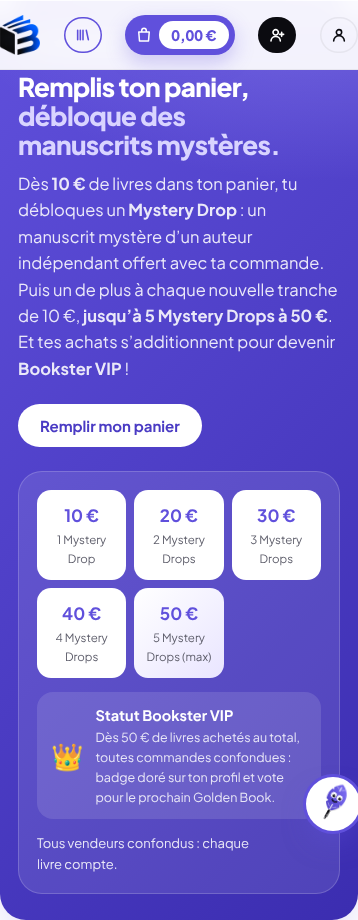
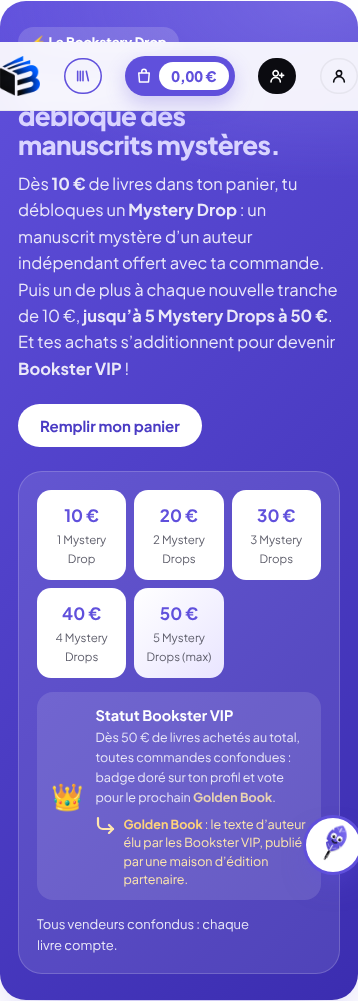
Accueil : définition du Golden Book sous le statut Bookster VIP
Claude-Session: https://claude.ai/code/session_01EPa3evC84KLMU14gb8iTX3

diff --git a/index.html b/index.html
@@ -1050,6 +1050,10 @@ footer .legal{grid-column:1/-1;border-top:1px solid var(--line);padding-top:18px
 .modal .btn.pk-manage{margin-top:16px}
 .au-list.boosted .au-item b::after{content:" ⚡ Prioritaire";font-size:11.5px;font-weight:800;color:var(--maj-d);background:var(--maj-l);border-radius:999px;padding:1px 8px;margin-left:6px;white-space:nowrap}
 @media(max-width:560px){.pk-hero{padding:18px}.pk-price b{font-size:28px}.pk-table{font-size:12.5px}.pk-table th:nth-child(4),.pk-table td:nth-child(4){display:none}}
+.dv-badge .gb-word{display:inline;font-size:inherit;color:#FFE7AE}
+.gb-def{display:flex;align-items:flex-start;gap:6px;margin-top:8px;font-size:12.5px;line-height:1.45;color:#FFE7AE}
+.gb-def svg{flex:none;margin-top:1px}
+.gb-def b{display:inline;font-size:inherit;color:#FFD37A}
 @media(prefers-reduced-motion:reduce){*{transition-duration:.01ms!important;animation:none!important;scroll-behavior:auto!important}}
 </style>
 </head>
@@ -1175,7 +1179,7 @@ footer .legal{grid-column:1/-1;border-top:1px solid var(--line);padding-top:18px
             <li><b>40&nbsp;€</b><span>4 Mystery Drops</span></li>
             <li class="max"><b>50&nbsp;€</b><span>5 Mystery Drops (max)</span></li>
           </ol>
-          <div class="dv-badge"><span>👑</span><div><b>Statut Bookster VIP</b><small>Dès 50&nbsp;€ de livres achetés au total, toutes commandes confondues&nbsp;: badge doré sur ton profil et vote pour le prochain Golden Book.</small></div></div>
+          <div class="dv-badge"><span>👑</span><div><b>Statut Bookster VIP</b><small>Dès 50&nbsp;€ de livres achetés au total, toutes commandes confondues&nbsp;: badge doré sur ton profil et vote pour le prochain <b class="gb-word">Golden Book</b>.</small><span class="gb-def"><svg width="22" height="18" viewBox="0 0 22 18" fill="none" aria-hidden="true"><path d="M3 2v6a5 5 0 0 0 5 5h10" stroke="currentColor" stroke-width="2.2" stroke-linecap="round"/><path d="M14 9l4 4-4 4" stroke="currentColor" stroke-width="2.2" stroke-linecap="round" stroke-linejoin="round"/></svg><span><b>Golden Book</b>&nbsp;: le texte d’auteur élu par les Bookster VIP, publié par une maison d’édition partenaire.</span></span></div></div>
           <p class="dv-note">Tous vendeurs confondus&nbsp;: chaque livre compte.</p>
         </div>
       </div>
@@ -3105,7 +3109,7 @@ var AIDE_FAQ=[
  {k:"acheter commander achat panier bag ajouter commande payer paiement passer",a:"Pour acheter :\n• clique sur « **Ajouter** » sous un livre (ou dans sa fiche) ;\n• ouvre ton **Bookster Bag** en haut ;\n• touche « **Passer au paiement** ».\nIl faut un compte Bookster pour commander."},
  {k:"protection acheteur frais commission 5 0,70 70 centimes cout",a:"La **Protection Acheteur** est de 5 % du montant des livres + 0,70 €. Elle est payée par l’acheteur : le vendeur, lui, ne paie **aucun frais** et reçoit 100 % de son prix."},
  {k:"drop drops mystery bookstery drop manuscrit mystere mysteres cadeau jauge palier offert gratuit 10 20 30 40 50 maximum",a:"Le **Bookstery Drop** glisse des manuscrits mystères (textes inédits d’auteurs indépendants) dans ta commande : **chaque tranche de 10 € de livres dans ton panier** débloque tout de suite un **Mystery Drop**, tous vendeurs confondus :\n• 10 € = 1 Mystery Drop · 20 € = 2 · 30 € = 3 · 40 € = 4\n• 50 € = 5 Mystery Drops (le maximum par commande).\nLe panier t’indique combien il te manque pour le suivant."},
- {k:"vip bookster vip statut badge dore jury golden book vote fidelite cumul 50 recompense profil mecene",a:"Le statut **Bookster VIP** 👑 récompense ta fidélité : tous tes achats de livres s’additionnent, commande après commande. Dès **50 € cumulés**, tu passes VIP automatiquement : badge doré sur ton profil, et tu peux **voter pour le prochain Golden Book**. Ta progression s’affiche en bas de ton panier et dans ton espace."},
+ {k:"vip bookster vip statut badge dore jury golden book vote fidelite cumul 50 recompense profil mecene",a:"Le statut **Bookster VIP** 👑 récompense ta fidélité : tous tes achats de livres s’additionnent, commande après commande. Dès **50 € cumulés**, tu passes VIP automatiquement : badge doré sur ton profil, et tu peux **voter pour le prochain Golden Book** : le texte d’auteur élu par les Bookster VIP, publié par une maison d’édition partenaire. Ta progression s’affiche en bas de ton panier et dans ton espace."},
  {k:"utilitaire utilitaires scolaire manuel cuisine dictionnaire guide essai documentaire exclu exclus pratique",a:"Les **Mystery Drops sont toujours des fictions** (roman, nouvelle, polar, poésie…). Les genres utilitaires et documentaires (scolaire, cuisine, dictionnaires, guides pratiques, essais…) **comptent dans ta jauge** mais sont exclus des Mystery Drops : personne n’a envie de recevoir une page de manuel scolaire en cadeau ! Si ton panier ne contient que ce type de livres, tu choisis le genre de tes manuscrits mystères."},
  {k:"genre cadeau choisir genre secours famille aucun texte",a:"Si ton Bag mélange plusieurs genres, tu choisis celui de ton cadeau avant de payer. S’il n’existe pas encore de texte dans ce genre, on prend un texte de la **même famille** (par exemple Thriller → Polar) ; sinon, tu choisis parmi **tes genres préférés**."},
  {k:"liseuse lire lis lit lecture qr code ouvrir mode nuit manuscrit mystere",a:"Après ta commande, chaque manuscrit mystère a un **QR code** : scanne-le avec ton téléphone pour l’ouvrir dans la liseuse. Tu le retrouves aussi dans « **Mes manuscrits mystères** » (ton espace, ou le raccourci dans le Bag). Fond crème ou **mode nuit**, temps de lecture estimé, et à la fin tu peux noter l’auteur, lui écrire et le suivre."},

diff --git a/supabase/functions/aide/faq.ts b/supabase/functions/aide/faq.ts
@@ -14,7 +14,7 @@ Bookstery est une plateforme lyonnaise, éthique et circulaire, qui donne une se
 # Bookstery Drop et manuscrits mystères
 - Le Bookstery Drop glisse des manuscrits mystères (textes inédits d'auteurs indépendants) dans les Bookster Bags.
 - Commande en cours : chaque tranche de 10 € de livres dans le panier (tous vendeurs confondus) débloque immédiatement un « Mystery Drop » (un manuscrit mystère offert) : 10 € = 1 Mystery Drop, 20 € = 2, 30 € = 3, 40 € = 4, 50 € = 5 Mystery Drops (maximum par commande). Le panier indique le montant manquant pour le Drop suivant et suggère des livres.
-- Fidélité, statut Bookster VIP : tous les achats de livres s'additionnent au fil des commandes (montant des livres, hors Protection Acheteur). Une barre de progression de 0 à 50 € s'affiche en bas du panier et dans « Mon espace ». Dès 50 € cumulés, le compte passe automatiquement Bookster VIP : badge doré sur le profil et droit de vote pour le prochain Golden Book.
+- Fidélité, statut Bookster VIP : tous les achats de livres s'additionnent au fil des commandes (montant des livres, hors Protection Acheteur). Une barre de progression de 0 à 50 € s'affiche en bas du panier et dans « Mon espace ». Dès 50 € cumulés, le compte passe automatiquement Bookster VIP : badge doré sur le profil et droit de vote pour le prochain Golden Book (le texte d'auteur élu par les Bookster VIP, publié par une maison d'édition partenaire).
 - Les Mystery Drops sont toujours des fictions. Les genres utilitaires et documentaires (scolaire, cuisine, dictionnaires, guides pratiques, essais, sciences, voyage, santé…) comptent dans la jauge mais sont exclus des Mystery Drops : personne n'a envie de recevoir une page de manuel scolaire en cadeau. Si le panier ne contient que ce type de livres, l'acheteur choisit le genre (fiction) de ses manuscrits mystères.
 - Si le Bag mélange plusieurs genres de fiction, l'acheteur choisit le genre de son cadeau avant de payer.
 - Genre de secours : s'il n'existe aucun texte dans ce genre, le manuscrit vient de la même famille (Imaginaire : Fantasy, Fantastique, Science-fiction, Horreur ; Polar & Thriller ; Littérature : Romans, Romance, Roman historique, Feel-good, Aventure, Humour, Classiques, Nouvelles, Théâtre, Poésie ; Jeunesse : Jeunesse, Young Adult, Contes & Légendes). Sinon, le Bookster choisit parmi ses genres préférés.
